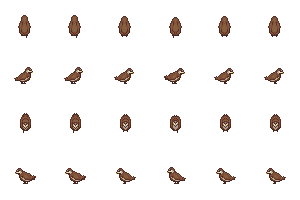
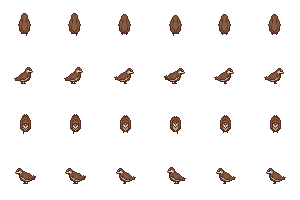
feat: butterflies flee and come in random colors, plus bird, defense and reconnect fixes (#423)
* fix: stand birds on their feet and closer to their shadow

* feat: butterflies flee too, and skittish NPCs land smoothly and never get stuck

* feat: butterflies spawn in a random color from a palette

* fix: make defense a little stronger

* fix: clear the frozen world behind the login screen after a server restart

---------

diff --git a/src/rules/npc-behavior/behaviors/skittish.ts b/src/rules/npc-behavior/behaviors/skittish.ts
@@ -1,5 +1,6 @@
 import { behaviorOptions } from "../behavior-options";
 import {
+  SKITTISH_ARRIVED,
   SKITTISH_CALM_MS,
   SKITTISH_ESCAPE_MAX,
   SKITTISH_ESCAPE_MIN,
@@ -14,6 +15,12 @@ import { wander } from "./wander";
 
 const optionsOf = (ctx: BehaviorContext) => behaviorOptions(ctx.input.npc, "skittish");
 
+/** How fast it gets away, as a share of its walk speed. */
+const speedOf = (ctx: BehaviorContext) => {
+  const options = optionsOf(ctx);
+  return (options && options.speed) || SKITTISH_SPEED_RATIO;
+};
+
 /** The living player inside its range, if one is. */
 function intruder(ctx: BehaviorContext) {
   const options = optionsOf(ctx);
@@ -23,9 +30,6 @@ function intruder(ctx: BehaviorContext) {
     ? near
     : undefined;
 }
-
-/** Close enough to its escape spot to land. */
-const ARRIVED = 12;
 
 /**
  * Still on its way to its escape spot, and not yet flying for longer than its calm time since it
@@ -38,7 +42,7 @@ function isEscaping(ctx: BehaviorContext) {
     !!options &&
     !!escapeTo &&
     scaredAt !== undefined &&
-    distanceBetween(ctx.input.npc, escapeTo) > ARRIVED &&
+    distanceBetween(ctx.input.npc, escapeTo) > SKITTISH_ARRIVED &&
     ctx.input.now - scaredAt < (options.calmMs ?? SKITTISH_CALM_MS)
   );
 }
@@ -89,18 +93,18 @@ export const skittish: NpcBehavior = {
       /* Keeps its spot unless it was never picked, it got there, or the intruder is near it too */
       const keep =
         current &&
-        distanceBetween(input.npc, current) > ARRIVED &&
+        distanceBetween(input.npc, current) > SKITTISH_ARRIVED &&
         distanceBetween(near, current) > range * 2;
       const to = keep ? current : (escapeSpot(ctx, near, rng) ?? input.npc);
       return {
         type: "escape",
         to: { x: to.x, y: to.y },
-        speedRatio: SKITTISH_SPEED_RATIO,
+        speedRatio: speedOf(ctx),
         scaredAt: input.now,
       };
     }
     if (current && isEscaping(ctx)) {
-      return { type: "escape", to: current, speedRatio: SKITTISH_SPEED_RATIO };
+      return { type: "escape", to: current, speedRatio: speedOf(ctx) };
     }
     return wander.move(ctx, rng);
   },

diff --git a/src/client/net/scene-socket.ts b/src/client/net/scene-socket.ts
@@ -13,7 +13,7 @@ import { changeSeason } from "@/client/scenes/map-season";
 import { setDayClock } from "@/client/scenes/world-clock";
 import { LOGIN_FADE_MS } from "@/client/scenes/login-fade";
 import type { ServerToClientEvents } from "@/network";
-import { onRoomObserved, startObserverTour, stopObserverTour } from "@/client/scenes/observer-tour";
+import { onRoomObserved, stopObserverTour } from "@/client/scenes/observer-tour";
 import { netInterp } from "@/client/net/scene-interpolation";
 import { recordPoseArrival } from "@/client/net/net-stats";
 import { idOfNetId } from "@/client/net/net-ids";
@@ -27,6 +27,7 @@ import { playWindupPie, stopWindupPie } from "@/client/views/windup-pie";
 import { drawHitShapes } from "@/client/views/hit-shapes";
 import { playLeaveDissolve, playSpawnDissolve } from "@/client/views/dissolve";
 import { bindNpcSocket } from "./npc-socket";
+import { bindConnectionSocket } from "./connection-socket";
 import {
   addPlayer,
   getPlayer,
@@ -74,12 +75,7 @@ export function bindSceneSocket(scene: SceneMain) {
   const socket = scene.socket;
 
   /* Arriving with a ticket, the hero's own room is next: touring one first only competes for its art */
-  const isRedeeming = !!scene.ticket; /* Read now: the scene spends the ticket next */
-  const tourIfLoggedOut = () => {
-    if (!isRedeeming) startObserverTour(scene);
-  };
-  socket.on("connect", tourIfLoggedOut);
-  if (socket.connected) tourIfLoggedOut();
+  bindConnectionSocket(scene);
   socket.on("roomObserved", (state) => onRoomObserved(scene, state));
 
   socket.on("poses", (data) => {

diff --git a/src/rules/npc-behavior/decide.ts b/src/rules/npc-behavior/decide.ts
@@ -12,6 +12,7 @@ import { decideAggro, isNpcAttackReady, type NpcPlayerView, type NpcSelfView } f
 import { isNpcAggressive, isNpcPassive, keepsAway } from "./behavior-options";
 import {
   NPC_EXTRA_CAST_TIME,
+  NPC_LAND_SETTLE_MS,
   NPC_HOME_RANGE,
   NPC_LEASH_RANGE,
   NPC_LUNGE_EXTRA_WINDUP,
@@ -86,6 +87,8 @@ export interface NpcBehaviorInput {
       /** When a player last came too near a `skittish` NPC, and where it is getting away to. */
       scaredAt?: number;
       escapeTo?: { x: number; y: number };
+      /** The habitat it is in, of its body's several; unset or null is the first. */
+      habitat?: string | null;
     };
   isStunned: boolean;
   /** Its windup (while `isAiming`) is aimed at someone, not a self buff cast out of a fight. */
@@ -374,6 +377,10 @@ export function decideNpcAction(input: NpcBehaviorInput, rng: Rng): NpcDecision 
     behaviorId = chooseBehavior(ctx, NPC_BEHAVIOR_IDS, state.behavior) ?? "idle";
     const behavior: NpcBehavior = NPC_BEHAVIORS[behaviorId];
     habitat = behavior.habitat?.(ctx);
+    // Touching down (a bird landing): stop and keep facing the way it flew, then carry on
+    if (state.habitat && !habitat) {
+      return { type: "wander", vx: 0, vy: 0, nextWanderAt: input.time + NPC_LAND_SETTLE_MS };
+    }
 
     if (behavior.engaged && targetPlayer) {
       expireStealthOfPlayerId = targetPlayer.socketId;

diff --git a/src/client/net/connection-socket.ts b/src/client/net/connection-socket.ts
@@ -1,0 +1,35 @@
+import type { SceneMain } from "@/client/scenes/main-scene";
+import { resetEntities } from "@/client/scenes/scene-entities";
+import { hideWorld } from "@/client/scenes/world-reveal";
+import { startObserverTour } from "@/client/scenes/observer-tour";
+import { netInterp } from "./scene-interpolation";
+import type { Player } from "@/client/views/player";
+
+/**
+ * Keeps the world behind the login screen live across reconnects. A dropped connection (a server
+ * restart) logs the player out; the old room is cleared at once, since nothing will ever update
+ * it again and it would linger frozen behind the login screen. Every connection then tours rooms
+ * until it logs in, except the first of a page that arrived with a login ticket: its own room is
+ * next.
+ */
+export function bindConnectionSocket(scene: SceneMain) {
+  const { socket } = scene;
+  /* Read now: the scene spends the ticket next */
+  let isRedeeming = !!scene.ticket;
+  const tourIfLoggedOut = () => {
+    if (isRedeeming) {
+      isRedeeming = false;
+      return;
+    }
+    startObserverTour(scene);
+  };
+  socket.on("connect", tourIfLoggedOut);
+  if (socket.connected) tourIfLoggedOut();
+
+  socket.on("disconnect", () => {
+    hideWorld(scene);
+    resetEntities(scene);
+    scene.hero = undefined as unknown as Player;
+    netInterp.reset();
+  });
+}

diff --git a/src/server/npc-movement.ts b/src/server/npc-movement.ts
@@ -8,6 +8,7 @@ import {
   leadNpcChase,
   NPC_CHASE_SPEED_RATIO,
   NPC_STRAFE_SPEED_RATIO,
+  SKITTISH_ARRIVED,
   seek,
   separate,
   steerWithSeparation,
@@ -53,6 +54,7 @@ export function performNpcMovement(
   targetPlayer: ServerCharacter | undefined,
   leader: Point | null | undefined,
 ) {
+  endEscapeOnArrival(npc);
   switch (movement.type) {
     case "standStill":
       return standStill(npc);
@@ -98,7 +100,7 @@ export function performNpcMovement(
     case "escape":
       if (movement.scaredAt !== undefined) npc.state.scaredAt = movement.scaredAt;
       npc.state.escapeTo = movement.to;
-      return walkTo(npc, movement.to, movement.speedRatio, true);
+      return walkTo(npc, movement.to, movement.speedRatio);
     case "lunge": {
       // Straight along the aim: no separation pushing it off the line the player is dodging
       const { x: vx, y: vy } = getLungeVelocity(movement.angle);
@@ -131,6 +133,14 @@ export function performNpcMovement(
       Object.assign(npc, change);
       return;
     }
+  }
+}
+
+/** At its escape spot the escape is over, so nothing (a leash walking it home) can restart it. */
+function endEscapeOnArrival(npc: Npc) {
+  const to = npc.state.escapeTo;
+  if (to && Math.hypot(to.x - npc.x, to.y - npc.y) <= SKITTISH_ARRIVED) {
+    npc.state.escapeTo = undefined;
   }
 }
 

diff --git a/src/content/bodies/shadow.ts b/src/content/bodies/shadow.ts
@@ -13,6 +13,7 @@ export interface ShadowShape {
 /** Shadows are half again as wide as the body's hit box, and half as tall as wide. */
 const WIDTH_PER_HIT_BOX = 1.5;
 const OPACITY = 0.15;
+/** How far below the feet a shadow's middle sits: a quarter of its height, at most this. */
 const BELOW_FEET = 4;
 /** A flier's shadow is smaller and fainter: it's further from the ground. */
 const AIR_SIZE = 0.6;
@@ -27,10 +28,12 @@ export function shadowOf(
   const flies = body.habitat === "air";
   const base = body.shadowWidth ?? body.hitBox.width * WIDTH_PER_HIT_BOX;
   const width = Math.max(4, Math.round(base * (flies ? AIR_SIZE : 1)));
+  const height = Math.max(2, Math.round(width / 2));
   return {
     width,
-    height: Math.max(2, Math.round(width / 2)),
-    below: flies ? AIR_BELOW_FEET : BELOW_FEET,
+    height,
+    /* A small body's oval is short: a fixed drop leaves its feet on the rim, as if floating */
+    below: flies ? AIR_BELOW_FEET : Math.min(BELOW_FEET, Math.round(height / 4)),
     opacity: OPACITY * (flies ? AIR_OPACITY : 1),
   };
 }

diff --git a/src/server/game-world.ts b/src/server/game-world.ts
@@ -64,13 +64,16 @@ export function spawnNpc(
   }
   const id = world.dice.newId();
   const spawn = Object.fromEntries(properties.map((p) => [p.name, p.value]));
-  /* A spawn's `walkRange` is its `wander` radius there, and its `tint` colors it (butterflies) */
+  /* A spawn's `walkRange` is its `wander` radius there, and its `tint` colors it over the actor's */
   const { walkRange, tint, ...state } = spawn;
+  const { tints, ...profile } = npc.profile;
+  const rolled = tints?.length ? tints[Math.floor(world.rng() * tints.length)] : undefined;
+  const chosenTint = typeof tint === "string" ? tint : rolled;
   world.npcs[id] = new Npc(world, {
     id,
     room,
     ...npc,
-    profile: typeof tint === "string" ? { ...npc.profile, tint } : npc.profile,
+    profile: chosenTint ? { ...profile, tint: chosenTint } : profile,
     equipment: { ...npc.equipment, ...equipment },
     behaviors: mergeBehaviors(
       npc.behaviors,

diff --git a/src/rules/npc-behavior/skittish.test.ts b/src/rules/npc-behavior/skittish.test.ts
@@ -94,4 +94,21 @@ describe("skittish", () => {
     );
     expect(decision.habitat).toBeUndefined();
   });
+
+  it("gets away at its own speed, staying in its habitat when it has no other", () => {
+    const input = bird(player(30));
+    input.npc.behaviors = { fight: false, wander: {}, skittish: { speed: 1.3 } };
+    const decision = decideNpcAction(input, () => 0.5);
+    expect(decision.movement).toMatchObject({ type: "escape", speedRatio: 1.3 });
+    expect(decision.habitat).toBeUndefined();
+  });
+
+  it("stops on landing and keeps its facing for a moment before wandering on", () => {
+    const decision = decideNpcAction(
+      bird(null, { habitat: "air", scaredAt: NOW - 1000, escapeTo: { x: 5, y: 0 } }),
+      () => 0.1,
+    );
+    expect(decision.habitat).toBeUndefined();
+    expect(decision.movement).toEqual({ type: "wander", vx: 0, vy: 0, nextWanderAt: 5 + 900 });
+  });
 });

diff --git a/src/content/actors/actors-3.ts b/src/content/actors/actors-3.ts
@@ -35,12 +35,17 @@ export const actors3 = {
   },
   butterfly: {
     charClass: "rogue",
-    profile: { race: "butterfly", userName: "Butterfly" },
+    profile: {
+      race: "butterfly",
+      userName: "Butterfly",
+      /* Orange, sky blue, pink, lemon, lavender, mint, white */
+      tints: ["0xFFB347", "0x7FB3FF", "0xFF8FC8", "0xFFE066", "0xC8A2FF", "0x8FE3B0", "0xFFFFFF"],
+    },
     flavor:
       "It drifts from flower to flower on warm days. Children chase them; nobody has ever caught one on purpose.",
     baseStats: { level: 1 },
     state: { noWorldDrops: true, noExp: true, catchable: false },
-    behaviors: { fight: false, wander: { radius: 64 } },
+    behaviors: { fight: false, wander: { radius: 64 }, skittish: { speed: 1.3 } },
     active: { seasons: ["spring", "summer"], hours: [6, 20] },
   },
   sparrow: {

diff --git a/src/rules/combat/damage.test.ts b/src/rules/combat/damage.test.ts
@@ -127,8 +127,8 @@ describe("rollAttack", () => {
       undefined,
       () => 0.5,
     );
-    // 10 defense left against a level 1 attacker stops 10 / (10 + 40) of the damage
-    expect(result).toMatchObject({ physicalDamage: 8 });
+    // 10 defense left against a level 1 attacker stops 10 / (10 + 30) of the damage
+    expect(result).toMatchObject({ physicalDamage: 7 });
     const tiny = rollAttack(attacker, { ...victim, defense: 1000 }, undefined, () => 0.5);
     expect(tiny).toMatchObject({ physicalDamage: 1 });
   });

diff --git a/src/rules/npc-behavior/constants.ts b/src/rules/npc-behavior/constants.ts
@@ -80,3 +80,7 @@ export const SKITTISH_ESCAPE_MAX = 240;
 export const SKITTISH_ESCAPE_VEER = 0.7;
 /** How much faster than its walk a scared `skittish` NPC gets away. */
 export const SKITTISH_SPEED_RATIO = 1.8;
+/** How close a `skittish` NPC gets to its escape spot to call the escape done, px. */
+export const SKITTISH_ARRIVED = 12;
+/** How long an NPC stands still after landing, facing the way it flew, before it wanders on, ms. */
+export const NPC_LAND_SETTLE_MS = 900;

diff --git a/src/content/actors/actor-types.ts b/src/content/actors/actor-types.ts
@@ -15,6 +15,8 @@ export interface MobProfile {
   readonly race: BodyId;
   readonly gender?: "male" | "female";
   readonly tint?: string;
+  /** Colors it may come in: each spawn picks one at random (butterflies). A map's `tint` wins. */
+  readonly tints?: readonly string[];
   readonly scale?: number;
   readonly face?: TexturedLook;
   readonly hair?: TexturedLook;
